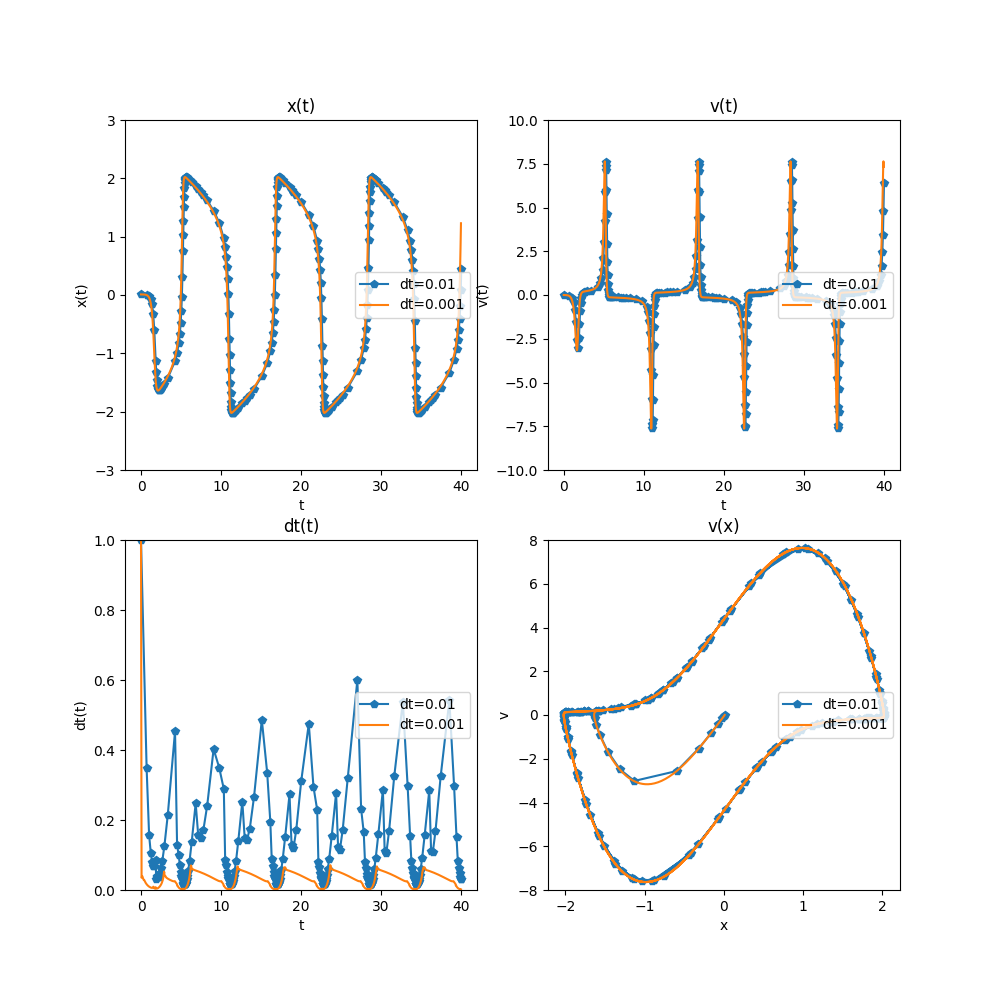
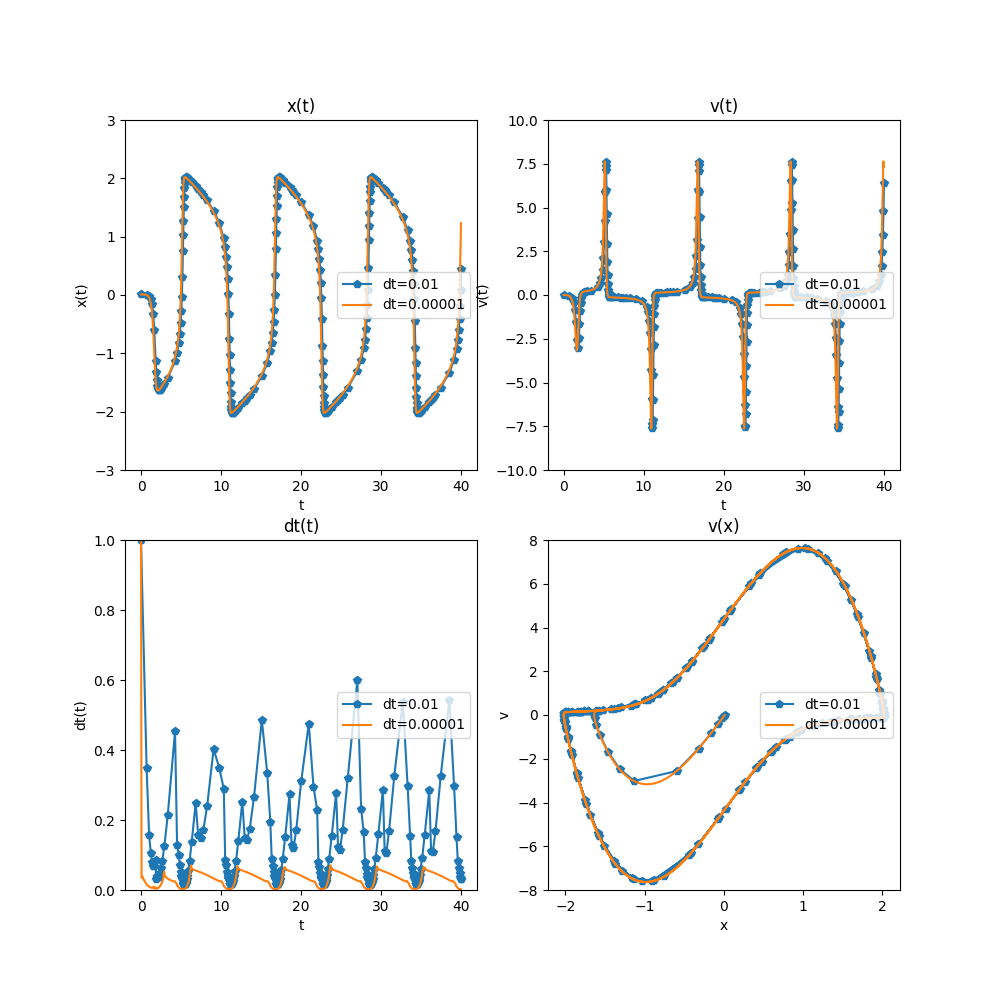
numerki lab3

diff --git a/metody_numeryczne/sem5/lab3/lab3.py b/metody_numeryczne/sem5/lab3/lab3.py
@@ -6,7 +6,7 @@ def f(t, x, v, alpha):
 	return v
 
 def g(t, x, v, alpha):
-	return alpha*(1-x**2)*v - x
+	return alpha*(1 - x**2)*v - x
 
 def metodaTrapezow(x0, v0, dt0, alpha):
 	a11 = 1
@@ -79,28 +79,28 @@ def zad1(x0, v0, dt0, alpha, S, p, tmax, TOL1, TOL2, RK2):
 		axs[1, 1].set_ylim([-8, 8])
 
 		axs[0, 0].plot(tArr1, xArr1, 'p-', label='dt=0.01')
-		axs[0, 0].plot(tArr2, xArr2, label='dt=0.001')
+		axs[0, 0].plot(tArr2, xArr2, label='dt=0.00001')
 		axs[0, 0].title.set_text('x(t)')
 		axs[0, 0].set_xlabel('t')
 		axs[0, 0].set_ylabel('x(t)')
 		axs[0, 0].legend(loc='right')
 
 		axs[0, 1].plot(tArr1, vArr1, 'p-', label='dt=0.01')
-		axs[0, 1].plot(tArr2, vArr2, label='dt=0.001')
+		axs[0, 1].plot(tArr2, vArr2, label='dt=0.00001')
 		axs[0, 1].title.set_text('v(t)')
 		axs[0, 1].set_xlabel('t')
 		axs[0, 1].set_ylabel('v(t)')
 		axs[0, 1].legend(loc='right')
 
 		axs[1, 0].plot(tArr1, dtArr1, 'p-', label='dt=0.01')
-		axs[1, 0].plot(tArr2, dtArr2, label='dt=0.001')
+		axs[1, 0].plot(tArr2, dtArr2, label='dt=0.00001')
 		axs[1, 0].title.set_text('dt(t)')
 		axs[1, 0].set_xlabel('t')
 		axs[1, 0].set_ylabel('dt(t)')
 		axs[1, 0].legend(loc='right')
 
 		axs[1, 1].plot(xArr1, vArr1, 'p-', label='dt=0.01')
-		axs[1, 1].plot(xArr2, vArr2, label='dt=0.001')
+		axs[1, 1].plot(xArr2, vArr2, label='dt=0.00001')
 		axs[1, 1].title.set_text('v(x)')
 		axs[1, 1].set_xlabel('x')
 		axs[1, 1].set_ylabel('v')
